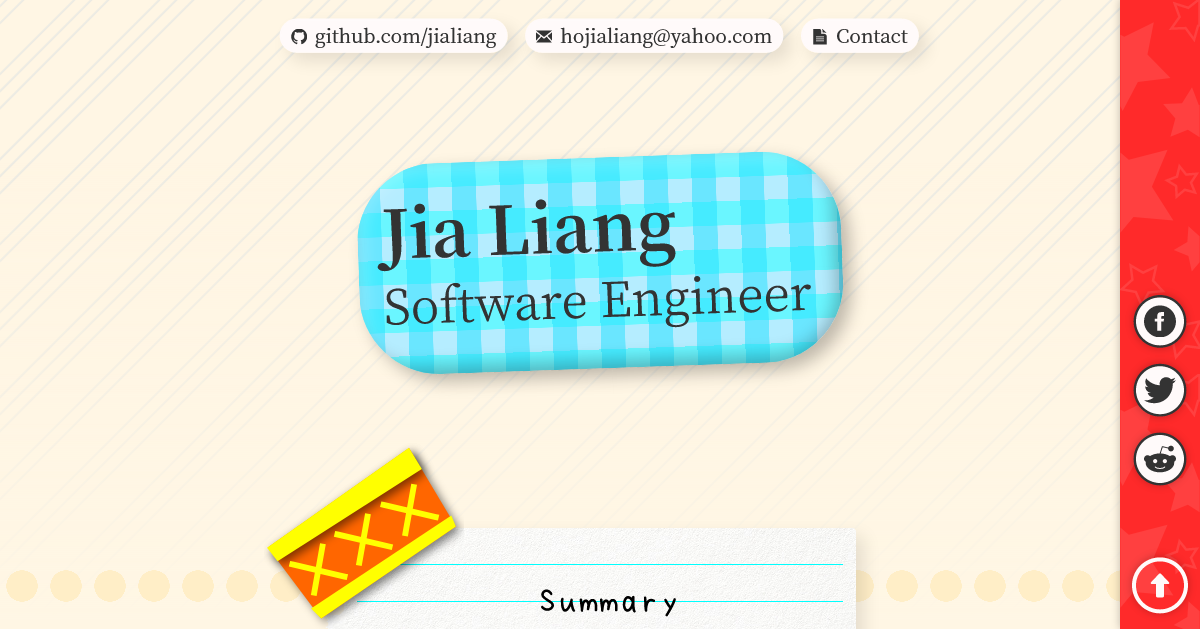
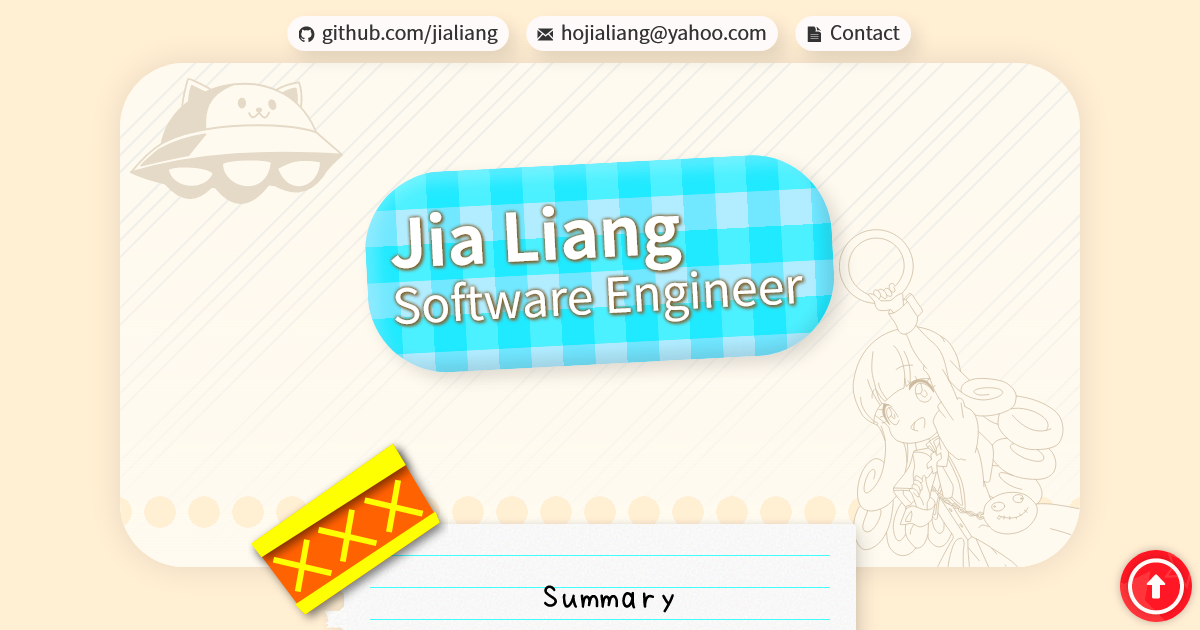
Release 5.0.21

diff --git a/index.html b/index.html
@@ -144,41 +144,6 @@
         box-shadow: 0 0 0.5rem rgba(0, 0, 0, 0.25);
       }
 
-      .right-bar a {
-        display: inline-block;
-        width: 2rem;
-        height: 2rem;
-        margin: 0.5rem 0;
-        padding: 0.5rem;
-        transition: 0.05s transform;
-        border: 3px solid #333;
-        border-radius: 100%;
-        background: snow;
-        box-shadow: 0 0 0.5rem rgba(0, 0, 0, 0.25);
-      }
-
-      .right-bar a:active {
-        transform: scale(0.925);
-      }
-
-      .right-bar a:focus {
-        border-color: cyan;
-        background: lightcyan;
-        box-shadow: 0 0 0.5rem rgba(0, 255, 255, 0.5);
-      }
-
-      .right-bar a:focus:not(:focus-visible) {
-        border-color: #333;
-        background: snow;
-        box-shadow: 0 0 0.5rem rgba(0, 0, 0, 0.25);
-      }
-
-      .right-bar a:hover {
-        border-color: cyan !important;
-        background: lightcyan !important;
-        box-shadow: 0 0 0.5rem rgba(0, 255, 255, 0.5) !important;
-      }
-
       .right-bar svg {
         width: 2rem;
         height: 2rem;
@@ -193,25 +158,33 @@
         height: 2rem;
         margin: auto;
         padding: 0.5rem;
-        color: snow;
+        transition: 0.05s transform;
         border: 0.25rem solid snow;
         border-radius: 100%;
         background: rgba(0, 0, 0, 0);
+        box-shadow: 0 0 0.5rem rgba(0, 0, 0, 0.25);
+      }
+
+      .right-bar .top-top:active {
+        transform: scale(0.925);
       }
 
       .right-bar .to-top:focus {
         border-color: cyan;
         background: lightcyan;
+        box-shadow: 0 0 0.5rem rgba(0, 255, 255, 0.5);
       }
 
       .right-bar .to-top:focus:not(:focus-visible) {
         border-color: snow;
         background: rgba(0, 0, 0, 0);
+        box-shadow: 0 0 0.5rem rgba(0, 0, 0, 0.25);
       }
 
       .right-bar .to-top:hover {
         border-color: cyan !important;
         background: lightcyan !important;
+        box-shadow: 0 0 0.5rem rgba(0, 255, 255, 0.5) !important;
       }
 
       .right-bar .to-top:focus svg {
@@ -275,19 +248,20 @@
         display: inline-block;
         margin: 5rem 1rem 10rem 1rem;
         padding: 2em 2em 3em 1.5em;
-        transform: rotate(-4deg);
+        transform: rotate(-3deg);
         text-align: left;
-        color: black;
+        color: white;
         border-radius: 5em;
         background: #6af6ff;
-        background: linear-gradient(to right, rgba(32, 224, 255, 0.67) 50%, rgba(0, 0, 0, 0) 51%) 0
-            0/3em 100% repeat-x,
-          linear-gradient(to bottom, rgba(32, 255, 255, 0.67) 50%, rgba(0, 0, 0, 0) 51%) 0 0/100%
-            3em repeat-y,
+        background: linear-gradient(to right, rgba(0, 220, 255, 0.33) 50%, rgba(0, 0, 0, 0) 51%) 0 0/4em
+            100% repeat-x,
+          linear-gradient(to bottom, rgba(0, 243, 255, 0.5) 50%, rgba(0, 0, 0, 0) 51%) 0 0/100%
+            4.5em repeat-y,
           #b5edff;
         box-shadow: rgba(0, 0, 0, 0.125) 0.5em 0.5em 1em 0,
           rgba(0, 0, 0, 0.125) -0.5em -0.5em 1em 0 inset,
           rgba(255, 255, 255, 0.25) 0.5em 0.5em 1em 0 inset;
+        text-shadow: 2px 2px 2px #7e602f, 0 0 2px #7e602f, 0 0 2px #7e602f;
       }
 
       header h1,
